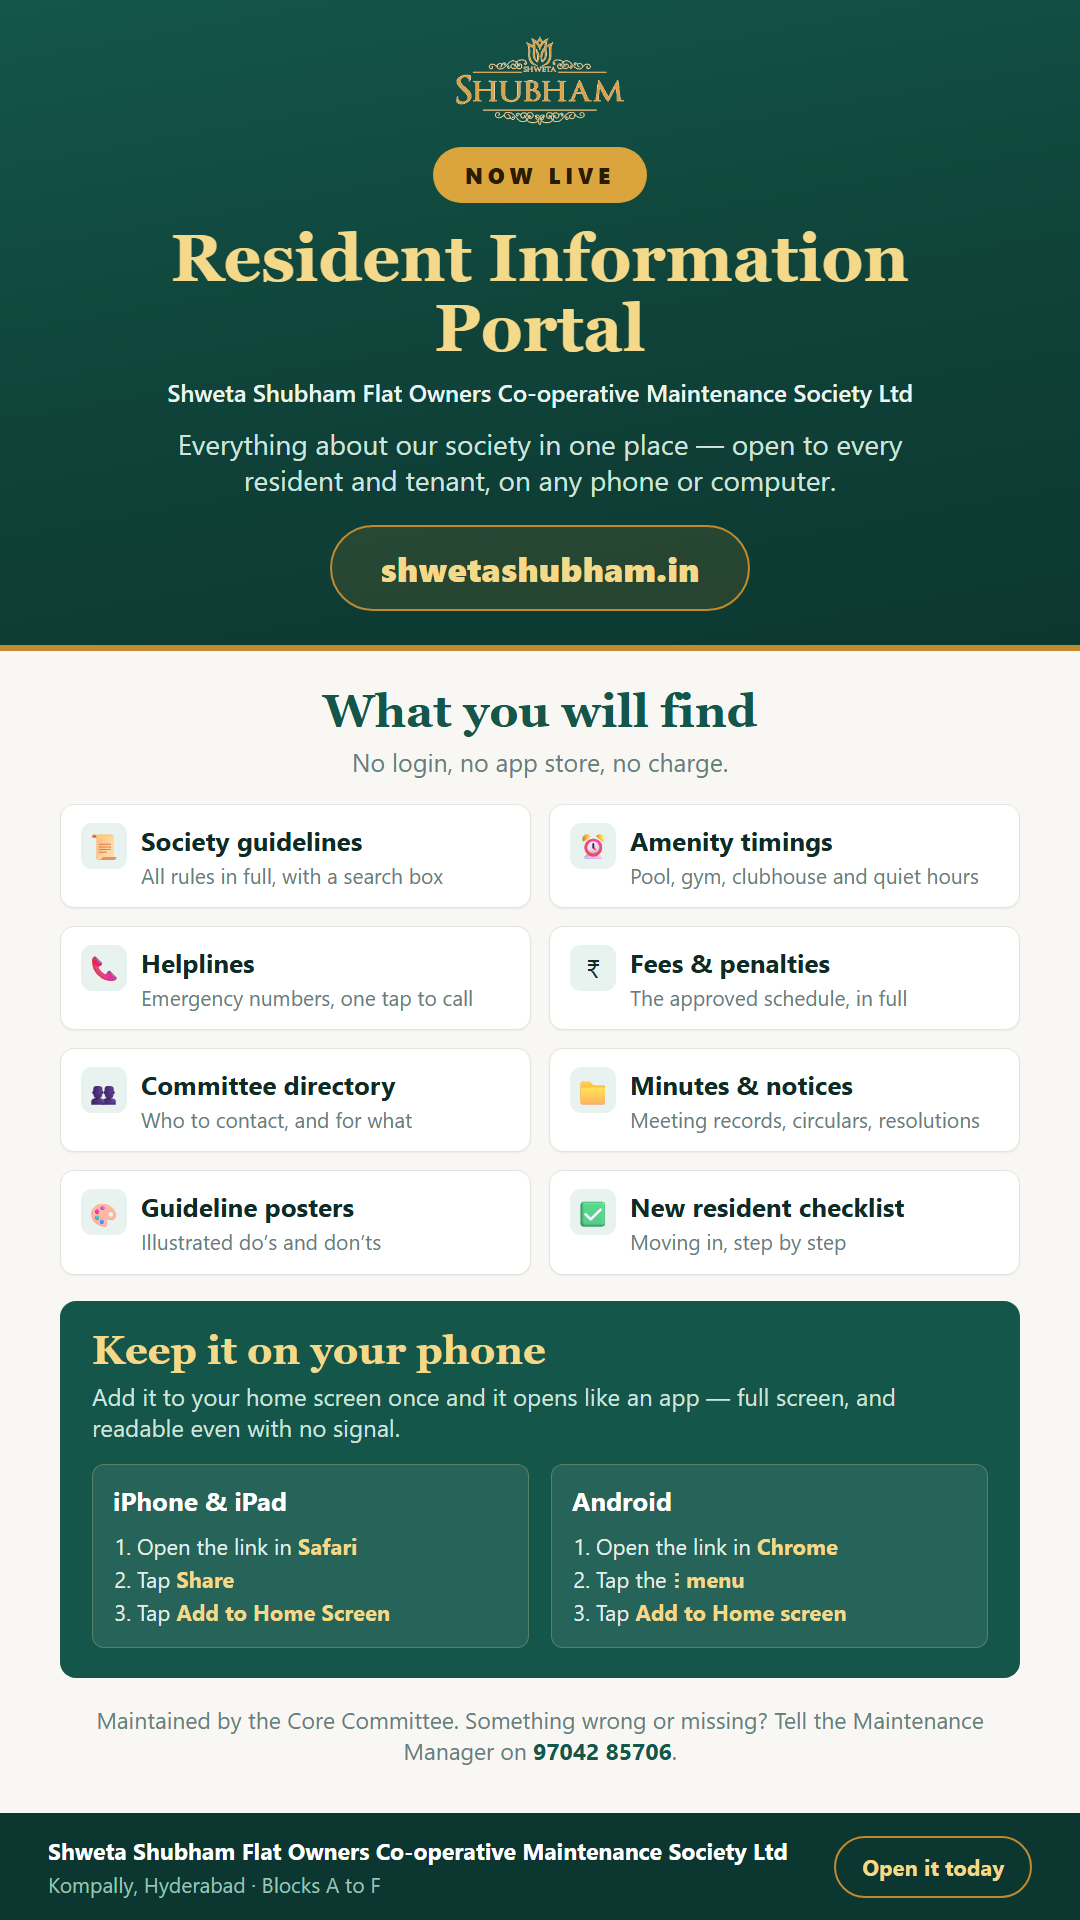
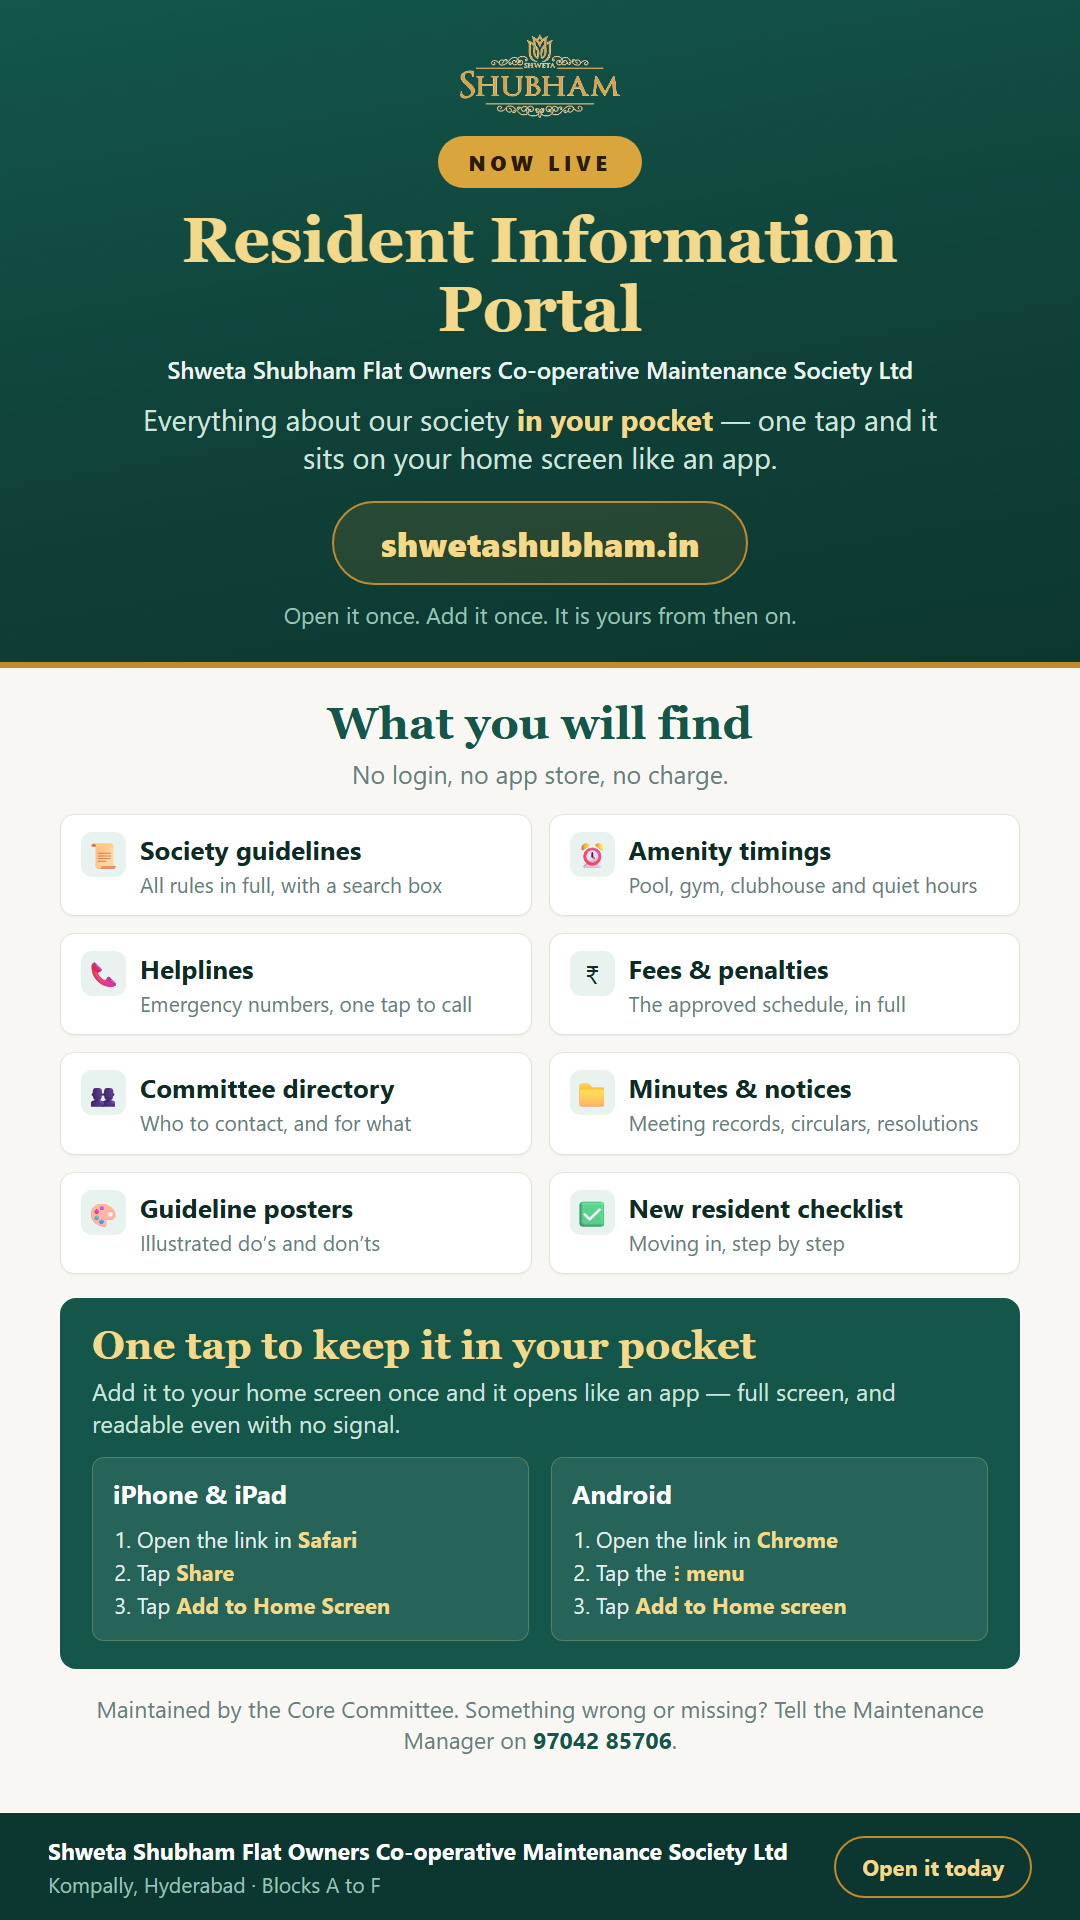
say it plainly on the poster: the portal fits in your pocket
The committee wanted the one-tap, keep-it-on-your-phone idea said up front
rather than left to the panel near the bottom, so the headline strapline,
the home-screen panel and the caption all carry it now.

diff --git a/index.html b/index.html
@@ -1360,9 +1360,9 @@ window.phFallback = function(img){
       <p>Illustrated do&rsquo;s and don&rsquo;ts for everyday situations. Tap any poster to view it full size.</p>
     </div>
     <div class="pos" id="posGrid">
-      <figure tabindex="0" data-cap="Our Resident Information Portal is now live at shwetashubham.in &mdash; the society guidelines in full with a search box, amenity timings, helpline numbers you can tap to call, the approved fees and penalty schedule, the committee directory, meeting minutes, notices and resolutions, these posters and the new resident checklist. No login, no app store, no charge. Add it to your home screen and it opens like an app, readable even with no signal.">
-        <div class="shot"><img src="images/posters/poster-portal-launch.png" alt="Resident Information Portal is now live" onerror="phFallback(this)" loading="lazy"></div>
-        <figcaption>Our Resident Information Portal is live</figcaption>
+      <figure tabindex="0" data-cap="Our Resident Information Portal is now live at shwetashubham.in &mdash; everything about the society in your pocket. The guidelines in full with a search box, amenity timings, helpline numbers you can tap to call, the approved fees and penalty schedule, the committee directory, meeting minutes, notices and resolutions, these posters and the new resident checklist. No login, no app store, no charge. One tap adds it to your home screen, where it opens like an app and stays readable even with no signal.">
+        <div class="shot"><img src="images/posters/poster-portal-launch.png" alt="Resident Information Portal is now live &ndash; one tap to keep it in your pocket" onerror="phFallback(this)" loading="lazy"></div>
+        <figcaption>The portal, in your pocket &ndash; in one tap</figcaption>
       </figure>
       <figure tabindex="0" data-cap="Balcony safety &amp; cleanliness &mdash; keep your balcony clean and contained, and never throw water, dust, cigarette butts or waste from balconies">
         <div class="shot"><img src="images/posters/poster-balcony.jpg" alt="Balcony safety and cleanliness" onerror="phFallback(this)" loading="lazy"></div>
